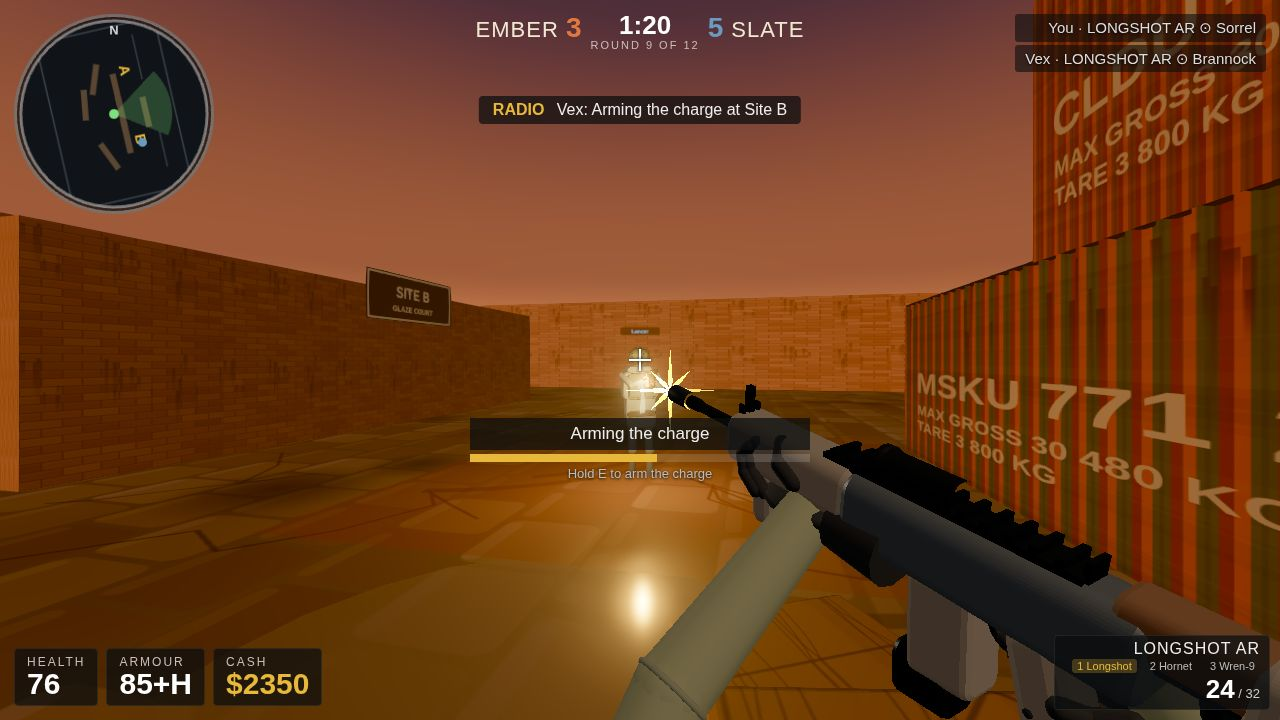
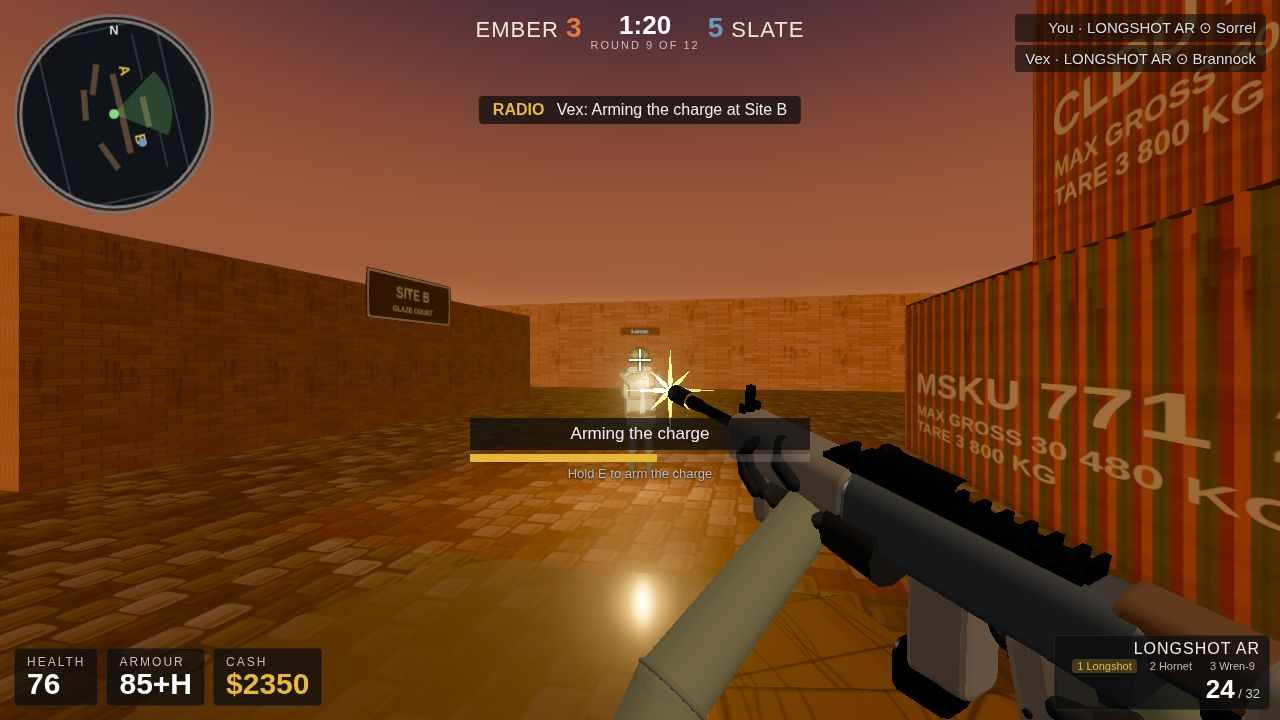
P6: floor — cobble 28x28 small stones (was ~1m), wider tone variation, bumpMap (synced layout), roughness simplified, 14 decal planes (cracks/oil/tire/gravel/lane markings); combat re-shot OK (floor reads as cobble yard)

diff --git a/game/src/textures.js b/game/src/textures.js
@@ -109,86 +109,165 @@ export function containerDoorTex(o) {
   return tex(c);
 }
 
-// ---- cobble ground: stones + cracks + oil + tire marks ----
+// ---- cobble ground: stones ONLY (cracks/oil/tire moved to DECALS, P6) ----
+// FIX 9 POIN P6: batu terlalu BESAR + terlalu seragam — di R0 close-up,
+// batu ~1 m kayak cokelat batangan, nol variasi. Sekarang 28x28 batu per
+// tile (was 16x16) + variasi warna LEBIH LEBAR (v 60-140, was 78-120) +
+// highlight atas + bayangan bawah per batu (relief tanpa normal map).
+// Repeat dinaikkan di map.js (8x6) -> batu ~0.31 m, mendekati cobble asli.
 export function groundTex(seed = 7) {
   const [c, g] = canvas(1024, 1024);
   const rng = mulberry32(seed);
-  g.fillStyle = '#6a5c4c'; g.fillRect(0, 0, 1024, 1024);
+  g.fillStyle = '#55483a'; g.fillRect(0, 0, 1024, 1024); // mortar (gap) — R2: lebih terang, grid tidak terlalu keras
   // cobble stones: staggered rows of rounded rects
-  const rows = 16, cols = 16;
+  // FIX 9 POIN P6 R2: tiap batu punya JITTER posisi + ukuran (was grid
+  // sempurna — semua batu sama besar, baris/kolom sejajar, kelihatan
+  // mesin-stempel). 5 rng() per batu, urutan SAMA di groundBumpTex supaya
+  // bump sejajar dengan warna: v, xoff, yoff, wvar, hvar.
+  const rows = 28, cols = 28;
   for (let r = 0; r < rows; r++) {
     for (let col = -1; col < cols; col++) {
-      const x = ((col + (r % 2) * 0.5) / cols) * 1024;
-      const y = (r / rows) * 1024;
-      const w = 1024 / cols - 5, h = 1024 / rows - 5;
-      const v = 78 + Math.floor(rng() * 42);
+      const v = 60 + Math.floor(rng() * 80);
+      const xoff = (rng() - 0.5) * 5, yoff = (rng() - 0.5) * 5;
+      const wvar = (rng() - 0.5) * 6, hvar = (rng() - 0.5) * 6;
+      const x = ((col + (r % 2) * 0.5) / cols) * 1024 + xoff;
+      const y = (r / rows) * 1024 + yoff;
+      const w = 1024 / cols - 4 + wvar, h = 1024 / rows - 4 + hvar;
       g.fillStyle = `rgb(${v + 24},${v + 4},${v - 18})`;
       g.beginPath();
-      g.roundRect(x + 2, y + 2, w, h, 9);
+      g.roundRect(x + 2, y + 2, w, h, 6);
       g.fill();
-      g.fillStyle = 'rgba(255,255,255,0.09)';
-      g.beginPath(); g.roundRect(x + 4, y + 3, w - 6, 10, 5); g.fill();
+      // top highlight + bottom shadow: batu punya relief
+      g.fillStyle = 'rgba(255,255,255,0.10)';
+      g.beginPath(); g.roundRect(x + 3, y + 3, w - 6, 7, 3); g.fill();
+      g.fillStyle = 'rgba(0,0,0,0.18)';
+      g.beginPath(); g.roundRect(x + 3, y + h - 9, w - 6, 7, 3); g.fill();
     }
-  }
-  // cracks: dark jagged polylines
-  g.strokeStyle = 'rgba(30,22,16,0.55)'; g.lineWidth = 2.5;
-  for (let i = 0; i < 14; i++) {
-    g.beginPath();
-    let x = rng() * 1024, y = rng() * 1024;
-    g.moveTo(x, y);
-    for (let s = 0; s < 7; s++) { x += (rng() - 0.5) * 120; y += (rng() - 0.5) * 120; g.lineTo(x, y); }
-    g.stroke();
-  }
-  // oil stains: dark soft blobs
-  for (let i = 0; i < 9; i++) {
-    const x = rng() * 1024, y = rng() * 1024, r = 26 + rng() * 60;
-    const grd = g.createRadialGradient(x, y, 2, x, y, r);
-    grd.addColorStop(0, 'rgba(18,14,10,0.6)');
-    grd.addColorStop(1, 'rgba(18,14,10,0)');
-    g.fillStyle = grd;
-    g.beginPath(); g.arc(x, y, r, 0, Math.PI * 2); g.fill();
-  }
-  // tire marks: two parallel dark arcs
-  for (let i = 0; i < 5; i++) {
-    const x = rng() * 1024, y = rng() * 1024, r = 120 + rng() * 160, a0 = rng() * Math.PI;
-    g.strokeStyle = 'rgba(20,16,12,0.35)'; g.lineWidth = 9 + rng() * 6;
-    g.beginPath(); g.arc(x, y, r, a0, a0 + 0.9 + rng() * 0.8); g.stroke();
-    g.beginPath(); g.arc(x, y, r + 26, a0, a0 + 0.9 + rng() * 0.8); g.stroke();
   }
   const t = tex(c);
   t.wrapS = t.wrapT = THREE.RepeatWrapping;
   return t;
 }
 
-// roughness map for the ground: mid grey = dry, dark = wet/smooth (puddles + oil)
+// ---- cobble height map (bumpMap): stones raised, gaps recessed ----
+// Layout SAMA PERSIS dengan groundTex (seed + loop sama, 1 rng() per batu)
+// supaya bump sejajar dengan warna. Dipakai sebagai bumpMap di map.js.
+export function groundBumpTex(seed = 7) {
+  const [c, g] = canvas(512, 512);
+  const rng = mulberry32(seed);
+  g.fillStyle = '#282828'; g.fillRect(0, 0, 512, 512); // gap = rendah
+  // Jitter SAMA seperti groundTex (5 rng() per batu, urutan sama) supaya
+  // bump sejajar dengan warna.
+  const rows = 28, cols = 28;
+  for (let r = 0; r < rows; r++) {
+    for (let col = -1; col < cols; col++) {
+      const v = 60 + Math.floor(rng() * 80);
+      const xoff = (rng() - 0.5) * 5, yoff = (rng() - 0.5) * 5;
+      const wvar = (rng() - 0.5) * 6, hvar = (rng() - 0.5) * 6;
+      const x = ((col + (r % 2) * 0.5) / cols) * 512 + xoff / 2;
+      const y = (r / rows) * 512 + yoff / 2;
+      const w = 512 / cols - 2 + wvar / 2, h = 512 / rows - 2 + hvar / 2;
+      const hv = 150 + Math.floor((v - 60) / 80 * 60); // batu = tinggi (150-210)
+      g.fillStyle = `rgb(${hv},${hv},${hv})`;
+      g.beginPath();
+      g.roundRect(x + 1, y + 1, w, h, 3);
+      g.fill();
+    }
+  }
+  const t = tex(c, false);
+  t.wrapS = t.wrapT = THREE.RepeatWrapping;
+  return t;
+}
+
+// roughness map for the ground: mid grey = dry, dark = wet/smooth
+// FIX 9 POIN P6: noda air/minyak kecil DIHAPUS dari sini — repeat naik ke
+// 8x6, noda kecil bakal berulang tiap 8,75 m (kelihatan tiling). Yang
+// tersisa: variasi lembap skala BESAR (halo lembut). Air berdiri + minyak
+// sekarang decal/puddle terpisah di map.js.
 export function groundRoughTex(seed = 7) {
   const [c, g] = canvas(512, 512);
   const rng = mulberry32(seed);
   g.fillStyle = '#b4b4b4'; g.fillRect(0, 0, 512, 512); // dry ~0.7
-  for (let i = 0; i < 26; i++) { // damp halos
-    const x = rng() * 512, y = rng() * 512, r = 30 + rng() * 70;
+  for (let i = 0; i < 10; i++) { // damp halos (large-scale only)
+    const x = rng() * 512, y = rng() * 512, r = 60 + rng() * 120;
     const grd = g.createRadialGradient(x, y, 2, x, y, r);
-    grd.addColorStop(0, 'rgba(90,90,90,0.7)');
+    grd.addColorStop(0, 'rgba(90,90,90,0.5)');
     grd.addColorStop(1, 'rgba(90,90,90,0)');
-    g.fillStyle = grd; g.beginPath(); g.arc(x, y, r, 0, Math.PI * 2); g.fill();
-  }
-  for (let i = 0; i < 8; i++) { // standing water: very smooth
-    const x = rng() * 512, y = rng() * 512, r = 18 + rng() * 34;
-    const grd = g.createRadialGradient(x, y, 2, x, y, r);
-    grd.addColorStop(0, 'rgba(40,40,40,0.95)');
-    grd.addColorStop(1, 'rgba(40,40,40,0)');
-    g.fillStyle = grd; g.beginPath(); g.arc(x, y, r, 0, Math.PI * 2); g.fill();
-  }
-  for (let i = 0; i < 9; i++) { // oil: mid-dark, NOT mirror (lesson: #606060 not #303030)
-    const x = rng() * 512, y = rng() * 512, r = 14 + rng() * 30;
-    const grd = g.createRadialGradient(x, y, 2, x, y, r);
-    grd.addColorStop(0, 'rgba(96,96,96,0.8)');
-    grd.addColorStop(1, 'rgba(96,96,96,0)');
     g.fillStyle = grd; g.beginPath(); g.arc(x, y, r, 0, Math.PI * 2); g.fill();
   }
   const t = tex(c, false);
   t.wrapS = t.wrapT = THREE.RepeatWrapping;
   return t;
+}
+
+// ---- floor DECALS (P6): large-scale yard features as separate planes ----
+// Dipakai di map.js sebagai plane transparan di posisi dunia tertentu
+// (bukan di-tile bareng cobble) — jadi retakan/noda/bekas ban tidak
+// berulang tiap 8,75 m.
+export function crackDecalTex(seed = 21) {
+  const [c, g] = canvas(256, 256);
+  const rng = mulberry32(seed);
+  g.strokeStyle = 'rgba(28,20,14,0.6)'; g.lineWidth = 2.5;
+  for (let i = 0; i < 3; i++) {
+    g.beginPath();
+    let x = 30 + rng() * 196, y = 30 + rng() * 196;
+    g.moveTo(x, y);
+    for (let s = 0; s < 8; s++) { x += (rng() - 0.5) * 90; y += (rng() - 0.5) * 90; g.lineTo(x, y); }
+    g.stroke();
+  }
+  return tex(c);
+}
+export function oilDecalTex(seed = 22) {
+  const [c, g] = canvas(256, 256);
+  const rng = mulberry32(seed);
+  for (let i = 0; i < 3; i++) {
+    const x = 60 + rng() * 136, y = 60 + rng() * 136, r = 30 + rng() * 55;
+    const grd = g.createRadialGradient(x, y, 2, x, y, r);
+    grd.addColorStop(0, 'rgba(16,12,9,0.65)');
+    grd.addColorStop(1, 'rgba(16,12,9,0)');
+    g.fillStyle = grd;
+    g.beginPath(); g.arc(x, y, r, 0, Math.PI * 2); g.fill();
+  }
+  return tex(c);
+}
+export function tireDecalTex(seed = 23) {
+  const [c, g] = canvas(512, 256);
+  const rng = mulberry32(seed);
+  for (let i = 0; i < 2; i++) {
+    const x = rng() * 512, y = rng() * 256, r = 140 + rng() * 180, a0 = rng() * Math.PI;
+    g.strokeStyle = 'rgba(20,16,12,0.5)'; g.lineWidth = 12 + rng() * 6; // R2: lebih gelap + tebal (was 0.4 / 10+6)
+    g.beginPath(); g.arc(x, y, r, a0, a0 + 0.8 + rng() * 0.7); g.stroke();
+    g.beginPath(); g.arc(x, y, r + 28, a0, a0 + 0.8 + rng() * 0.7); g.stroke();
+  }
+  return tex(c);
+}
+export function gravelDecalTex(seed = 24) {
+  const [c, g] = canvas(256, 256);
+  const rng = mulberry32(seed);
+  for (let i = 0; i < 420; i++) {
+    const v = 90 + Math.floor(rng() * 90);
+    g.fillStyle = `rgba(${v + 20},${v},${v - 20},${0.5 + rng() * 0.5})`;
+    g.beginPath();
+    g.arc(rng() * 256, rng() * 256, 1.5 + rng() * 3.5, 0, Math.PI * 2);
+    g.fill();
+  }
+  return tex(c);
+}
+export function markingDecalTex(seed = 25) {
+  // faded painted lane line (yellow) — worn, not a solid bar
+  // R2: alpha 0.75 -> 0.5 + lebih banyak wear (was garis kuning segar)
+  const [c, g] = canvas(256, 256);
+  const rng = mulberry32(seed);
+  g.fillStyle = 'rgba(210,170,60,0.5)';
+  g.fillRect(108, 8, 40, 240);
+  // wear: erase random scratches over the paint
+  g.globalCompositeOperation = 'destination-out';
+  for (let i = 0; i < 140; i++) {
+    g.fillStyle = 'rgba(0,0,0,0.5)';
+    g.fillRect(100 + rng() * 56, rng() * 256, 2 + rng() * 8, 2 + rng() * 20);
+  }
+  g.globalCompositeOperation = 'source-over';
+  return tex(c);
 }
 
 // ---- brick wall with stains ----

diff --git a/game/src/map.js b/game/src/map.js
@@ -3,7 +3,7 @@
 // locking rods; the ground is wet cobble; every 10x10 m cell holds a prop, decal or light.
 import * as THREE from 'three';
 import { box, chamferBox, tube, corrugatedPanel, ball, blobShadow } from './geom.js';
-import { containerSideTex, containerDoorTex, groundTex, groundRoughTex, brickTex, woodTex, signTex, softDiscTex } from './textures.js';
+import { containerSideTex, containerDoorTex, groundTex, groundRoughTex, groundBumpTex, crackDecalTex, oilDecalTex, tireDecalTex, gravelDecalTex, markingDecalTex, brickTex, woodTex, signTex, softDiscTex } from './textures.js';
 import { mulberry32 } from './textures.js';
 
 const CONTAINERS = [
@@ -72,17 +72,58 @@ export function buildMap(scene, rng) {
   const data = { containers: [], walls: [], puddles: [], sites: {} };
 
   // ---- ground: wet cobble ----
+  // FIX 9 POIN P6: repeat 4x3 -> 8x6 (batu ~0.31 m, bukan ~1 m) + bumpMap
+  // (relief batu dari groundBumpTex). Roughness map sudah disederhanakan
+  // (variasi lembap skala besar saja; noda kecil pindah ke decal).
   const gTex = groundTex(7);
-  gTex.repeat.set(4, 3);
+  gTex.repeat.set(8, 6);
   const gRough = groundRoughTex(7);
-  gRough.repeat.set(4, 3);
+  gRough.repeat.set(8, 6);
+  const gBump = groundBumpTex(7);
+  gBump.repeat.set(8, 6);
   const ground = new THREE.Mesh(
     new THREE.PlaneGeometry(70, 50),
-    new THREE.MeshStandardMaterial({ map: gTex, roughnessMap: gRough, roughness: 1.0, metalness: 0.05 }),
+    new THREE.MeshStandardMaterial({ map: gTex, roughnessMap: gRough, bumpMap: gBump, bumpScale: 0.03, roughness: 1.0, metalness: 0.05 }),
   );
   ground.rotation.x = -Math.PI / 2;
   ground.receiveShadow = true;
   map.add(ground);
+
+  // ---- floor DECALS (P6): large-scale yard features as separate planes ----
+  // Retakan / noda minyak / bekas ban / kerikil / marka jalan — ditaruh di
+  // posisi dunia tertentu, BUKAN di-tile, supaya tidak berulang tiap 8,75 m.
+  // polygonOffset + y bertingkat (0.015-0.03) cegah z-fighting antar decal.
+  function addDecal(texFn, seed, x, z, w, d, rotY = 0, y = 0.015) {
+    const m = new THREE.Mesh(
+      new THREE.PlaneGeometry(w, d),
+      new THREE.MeshStandardMaterial({ map: texFn(seed), transparent: true, roughness: 0.9, metalness: 0, polygonOffset: true, polygonOffsetFactor: -1, depthWrite: false }),
+    );
+    m.rotation.x = -Math.PI / 2;
+    m.rotation.z = rotY;
+    m.position.set(x, y, z);
+    m.receiveShadow = true;
+    map.add(m);
+  }
+  // tire marks along the main lane (combat camera looks down this lane)
+  addDecal(tireDecalTex, 23, 0, 4, 8, 4, 0, 0.015);
+  addDecal(tireDecalTex, 33, -6, -6, 7, 3.5, 0.6, 0.018);
+  // oil stains: under the drums (left) + near the containers (right)
+  addDecal(oilDecalTex, 22, -15, -6, 3, 3, 0, 0.02);
+  addDecal(oilDecalTex, 32, 4, -8, 2.5, 2.5, 0, 0.022);
+  addDecal(oilDecalTex, 42, 8, 6, 2, 2, 0, 0.024);
+  // cracks: scattered across the yard (posisi dijauhi dari genangan supaya
+  // decal tidak menimpa puddle: puddle di (-1,-6.5) dan (13,-1))
+  addDecal(crackDecalTex, 21, -8, 6, 3, 3, 0, 0.026);
+  addDecal(crackDecalTex, 31, 8, 4, 2.5, 2.5, 0.9, 0.028);
+  addDecal(crackDecalTex, 41, -4, -9, 3, 3, 0.4, 0.03);
+  addDecal(crackDecalTex, 51, 12, -4, 2, 2, 1.2, 0.032);
+  // gravel patches: near the pallets / crates (dijauhi dari puddle (4,8.5))
+  addDecal(gravelDecalTex, 24, 8, 9, 3.5, 3.5, 0, 0.034);
+  addDecal(gravelDecalTex, 34, -12, 2, 3, 3, 0, 0.036);
+  // faded lane markings: dashed centre line down the main lane
+  addDecal(markingDecalTex, 25, 0, 8, 1.2, 2.4, 0, 0.038);
+  addDecal(markingDecalTex, 35, 0, 2, 1.2, 2.4, 0, 0.04);
+  addDecal(markingDecalTex, 45, 0, -4, 1.2, 2.4, 0, 0.042);
 
   // ---- puddles: flat discs that catch the sky (roughness 0.15) ----
   const puddleMat = new THREE.MeshStandardMaterial({
